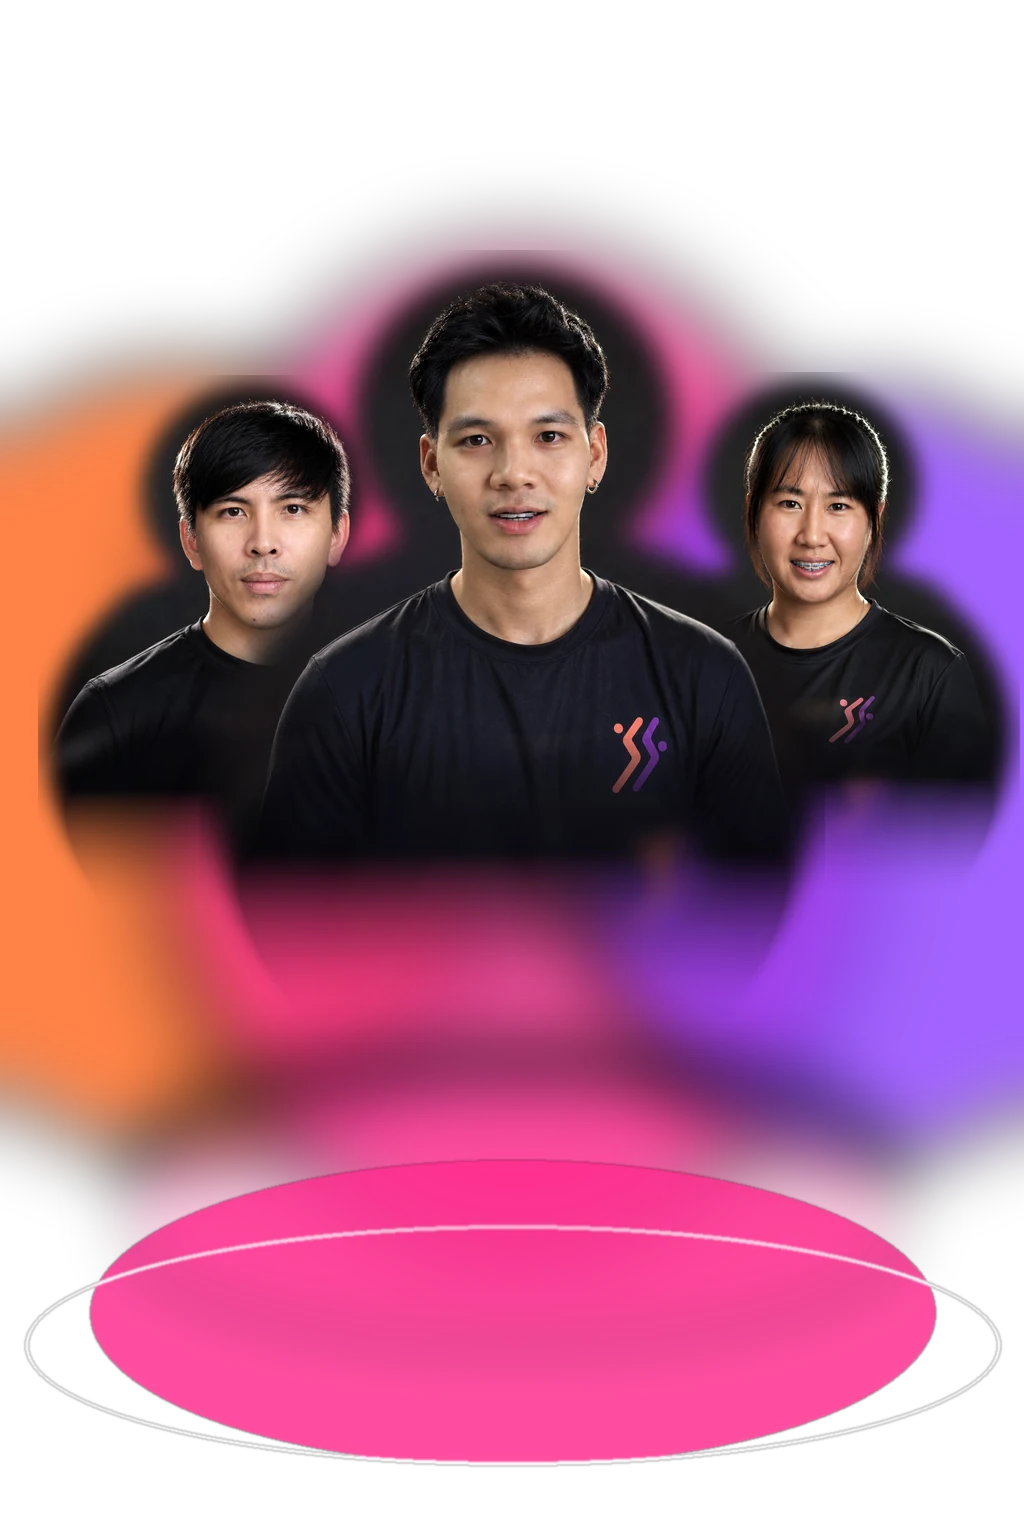
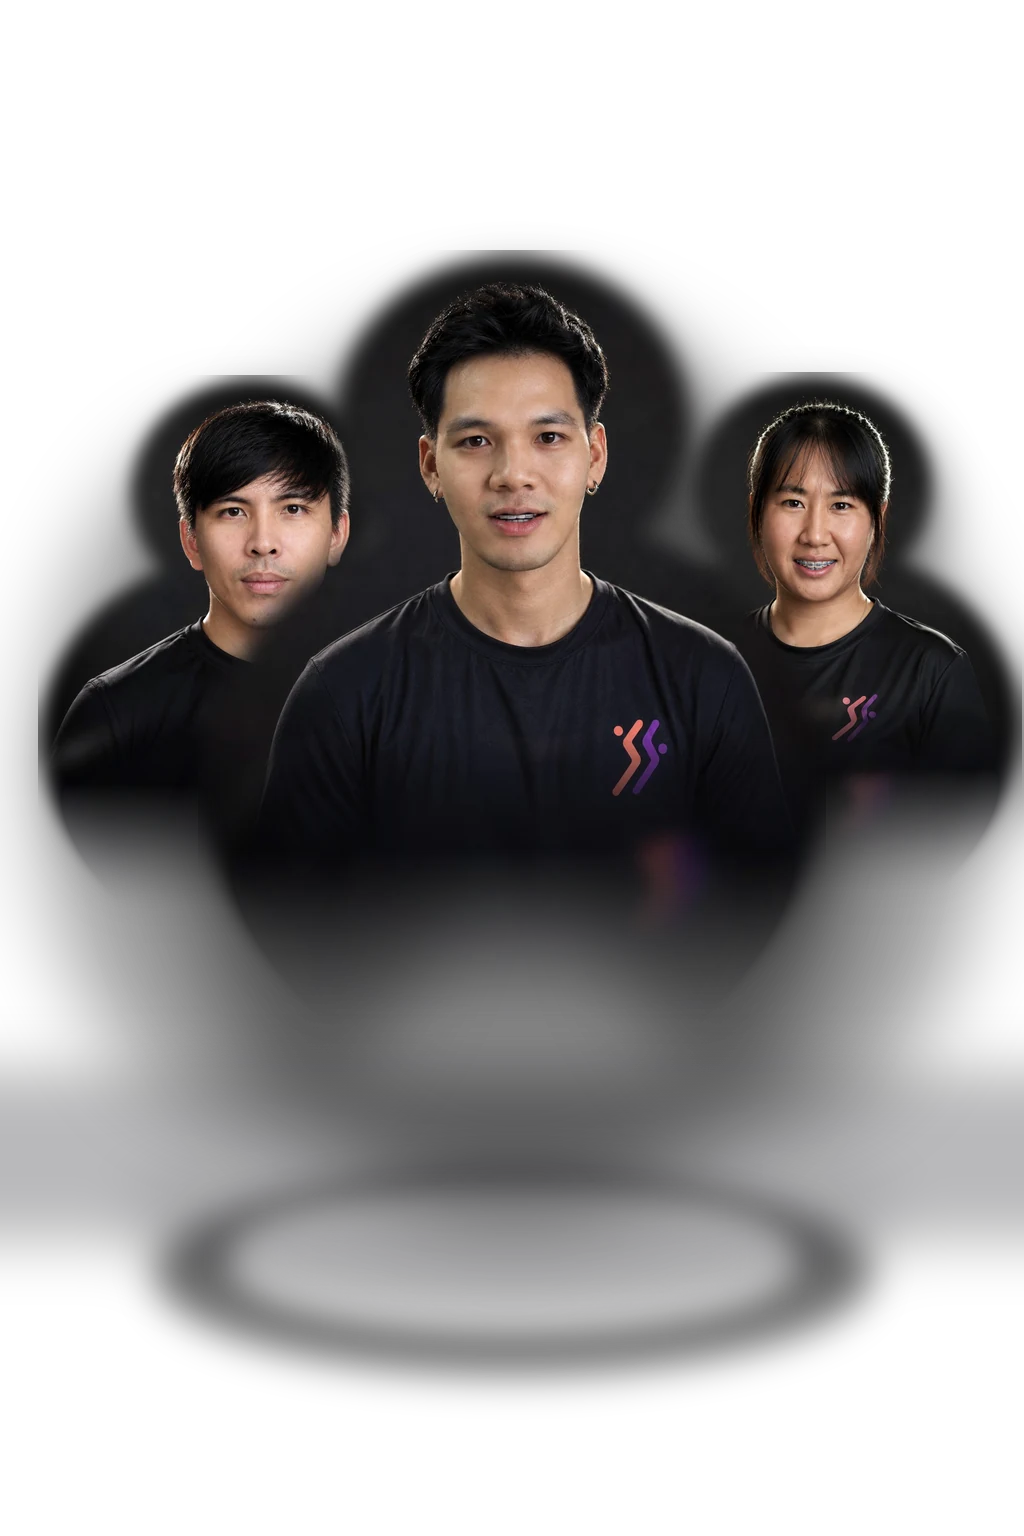
Tone down hero trainer lighting

diff --git a/style.css b/style.css
@@ -4352,41 +4352,33 @@ body.modal-open {
 .hero-team-scene::before {
   position: absolute;
   z-index: -3;
-  top: 12%;
+  top: 19%;
   left: 50%;
-  width: 82%;
+  width: 70%;
   aspect-ratio: 1;
-  background: radial-gradient(circle, rgba(237, 43, 140, 0.22), rgba(124, 57, 216, 0.14) 42%, transparent 70%);
+  background: radial-gradient(circle, rgba(255, 255, 255, 0.055), rgba(255, 255, 255, 0.025) 44%, transparent 72%);
   border-radius: 50%;
-  filter: blur(16px);
+  filter: blur(22px);
   content: "";
   transform: translateX(-50%);
-  animation: hero-aura-pulse 3.8s ease-in-out infinite;
+  animation: none;
 }
 
 .hero-team-scene::after {
   position: absolute;
   z-index: -4;
-  right: 5%;
-  bottom: 4%;
-  left: 5%;
-  height: 38%;
-  background: radial-gradient(ellipse, rgba(255, 107, 32, 0.18), rgba(237, 43, 140, 0.1) 38%, transparent 70%);
-  filter: blur(25px);
+  right: 13%;
+  bottom: 5%;
+  left: 13%;
+  height: 24%;
+  background: radial-gradient(ellipse, rgba(0, 0, 0, 0.36), rgba(255, 255, 255, 0.035) 48%, transparent 72%);
+  filter: blur(18px);
   content: "";
-  animation: hero-glow-breathe 4.4s ease-in-out infinite alternate;
+  animation: none;
 }
 
 .hero-team-orbit {
-  position: absolute;
-  z-index: -2;
-  left: 50%;
-  border: 1px solid rgba(196, 117, 255, 0.28);
-  border-radius: 50%;
-  box-shadow:
-    0 0 30px rgba(124, 57, 216, 0.14),
-    inset 0 0 24px rgba(237, 43, 140, 0.08);
-  transform-origin: center;
+  display: none;
 }
 
 .hero-team-orbit::before,
@@ -4428,15 +4420,7 @@ body.modal-open {
 }
 
 .hero-team-beam {
-  position: absolute;
-  z-index: -2;
-  top: 10%;
-  bottom: 5%;
-  width: 24%;
-  background: linear-gradient(to bottom, transparent, rgba(157, 76, 255, 0.2) 35%, rgba(255, 107, 32, 0.13) 68%, transparent);
-  filter: blur(9px);
-  opacity: 0.7;
-  transform-origin: center bottom;
+  display: none;
 }
 
 .hero-team-beam-one {
@@ -4480,8 +4464,7 @@ body.modal-open {
   -webkit-mask-image: linear-gradient(to bottom, #000 0%, #000 72%, rgba(0, 0, 0, 0.9) 82%, rgba(0, 0, 0, 0.35) 93%, transparent 100%);
   mask-image: linear-gradient(to bottom, #000 0%, #000 72%, rgba(0, 0, 0, 0.9) 82%, rgba(0, 0, 0, 0.35) 93%, transparent 100%);
   filter:
-    drop-shadow(0 30px 32px rgba(0, 0, 0, 0.42))
-    drop-shadow(0 0 24px rgba(124, 57, 216, 0.25));
+    drop-shadow(0 28px 30px rgba(0, 0, 0, 0.38));
   animation: hero-people-float 2.8s ease-in-out infinite;
 }
 
@@ -4499,17 +4482,14 @@ body.modal-open {
 
 .hero-team-platform {
   z-index: 3;
-  bottom: -6px;
-  width: 88%;
-  height: 128px;
-  background:
-    radial-gradient(ellipse at 27% 35%, rgba(124, 57, 216, 0.44), transparent 46%),
-    radial-gradient(ellipse at 70% 42%, rgba(237, 43, 140, 0.36), transparent 45%),
-    radial-gradient(ellipse at 52% 58%, rgba(255, 107, 32, 0.28), transparent 54%);
-  filter: blur(10px);
+  bottom: 4px;
+  width: 74%;
+  height: 86px;
+  background: radial-gradient(ellipse, rgba(255, 255, 255, 0.10), rgba(0, 0, 0, 0.34) 42%, transparent 72%);
+  filter: blur(8px);
   -webkit-mask-image: linear-gradient(to bottom, transparent 0%, #000 22%, #000 64%, transparent 100%);
   mask-image: linear-gradient(to bottom, transparent 0%, #000 22%, #000 64%, transparent 100%);
-  animation: hero-platform-pulse 3.2s ease-in-out infinite;
+  animation: none;
 }
 
 .hero-team-platform::before,
@@ -4523,23 +4503,15 @@ body.modal-open {
 }
 
 .hero-team-platform::before {
-  top: 27px;
-  border-top: 2px solid rgba(237, 43, 140, 0.42);
-  box-shadow: 0 -8px 24px rgba(124, 57, 216, 0.2);
-  transform: rotate(-2deg);
+  display: none;
 }
 
 .hero-team-platform::after {
-  top: 47px;
-  border-top: 2px solid rgba(255, 107, 32, 0.3);
-  transform: rotate(2deg) scaleX(0.92);
+  display: none;
 }
 
 .hero-team-particles {
-  position: absolute;
-  z-index: 4;
-  inset: 0;
-  pointer-events: none;
+  display: none;
 }
 
 .hero-team-particles span {